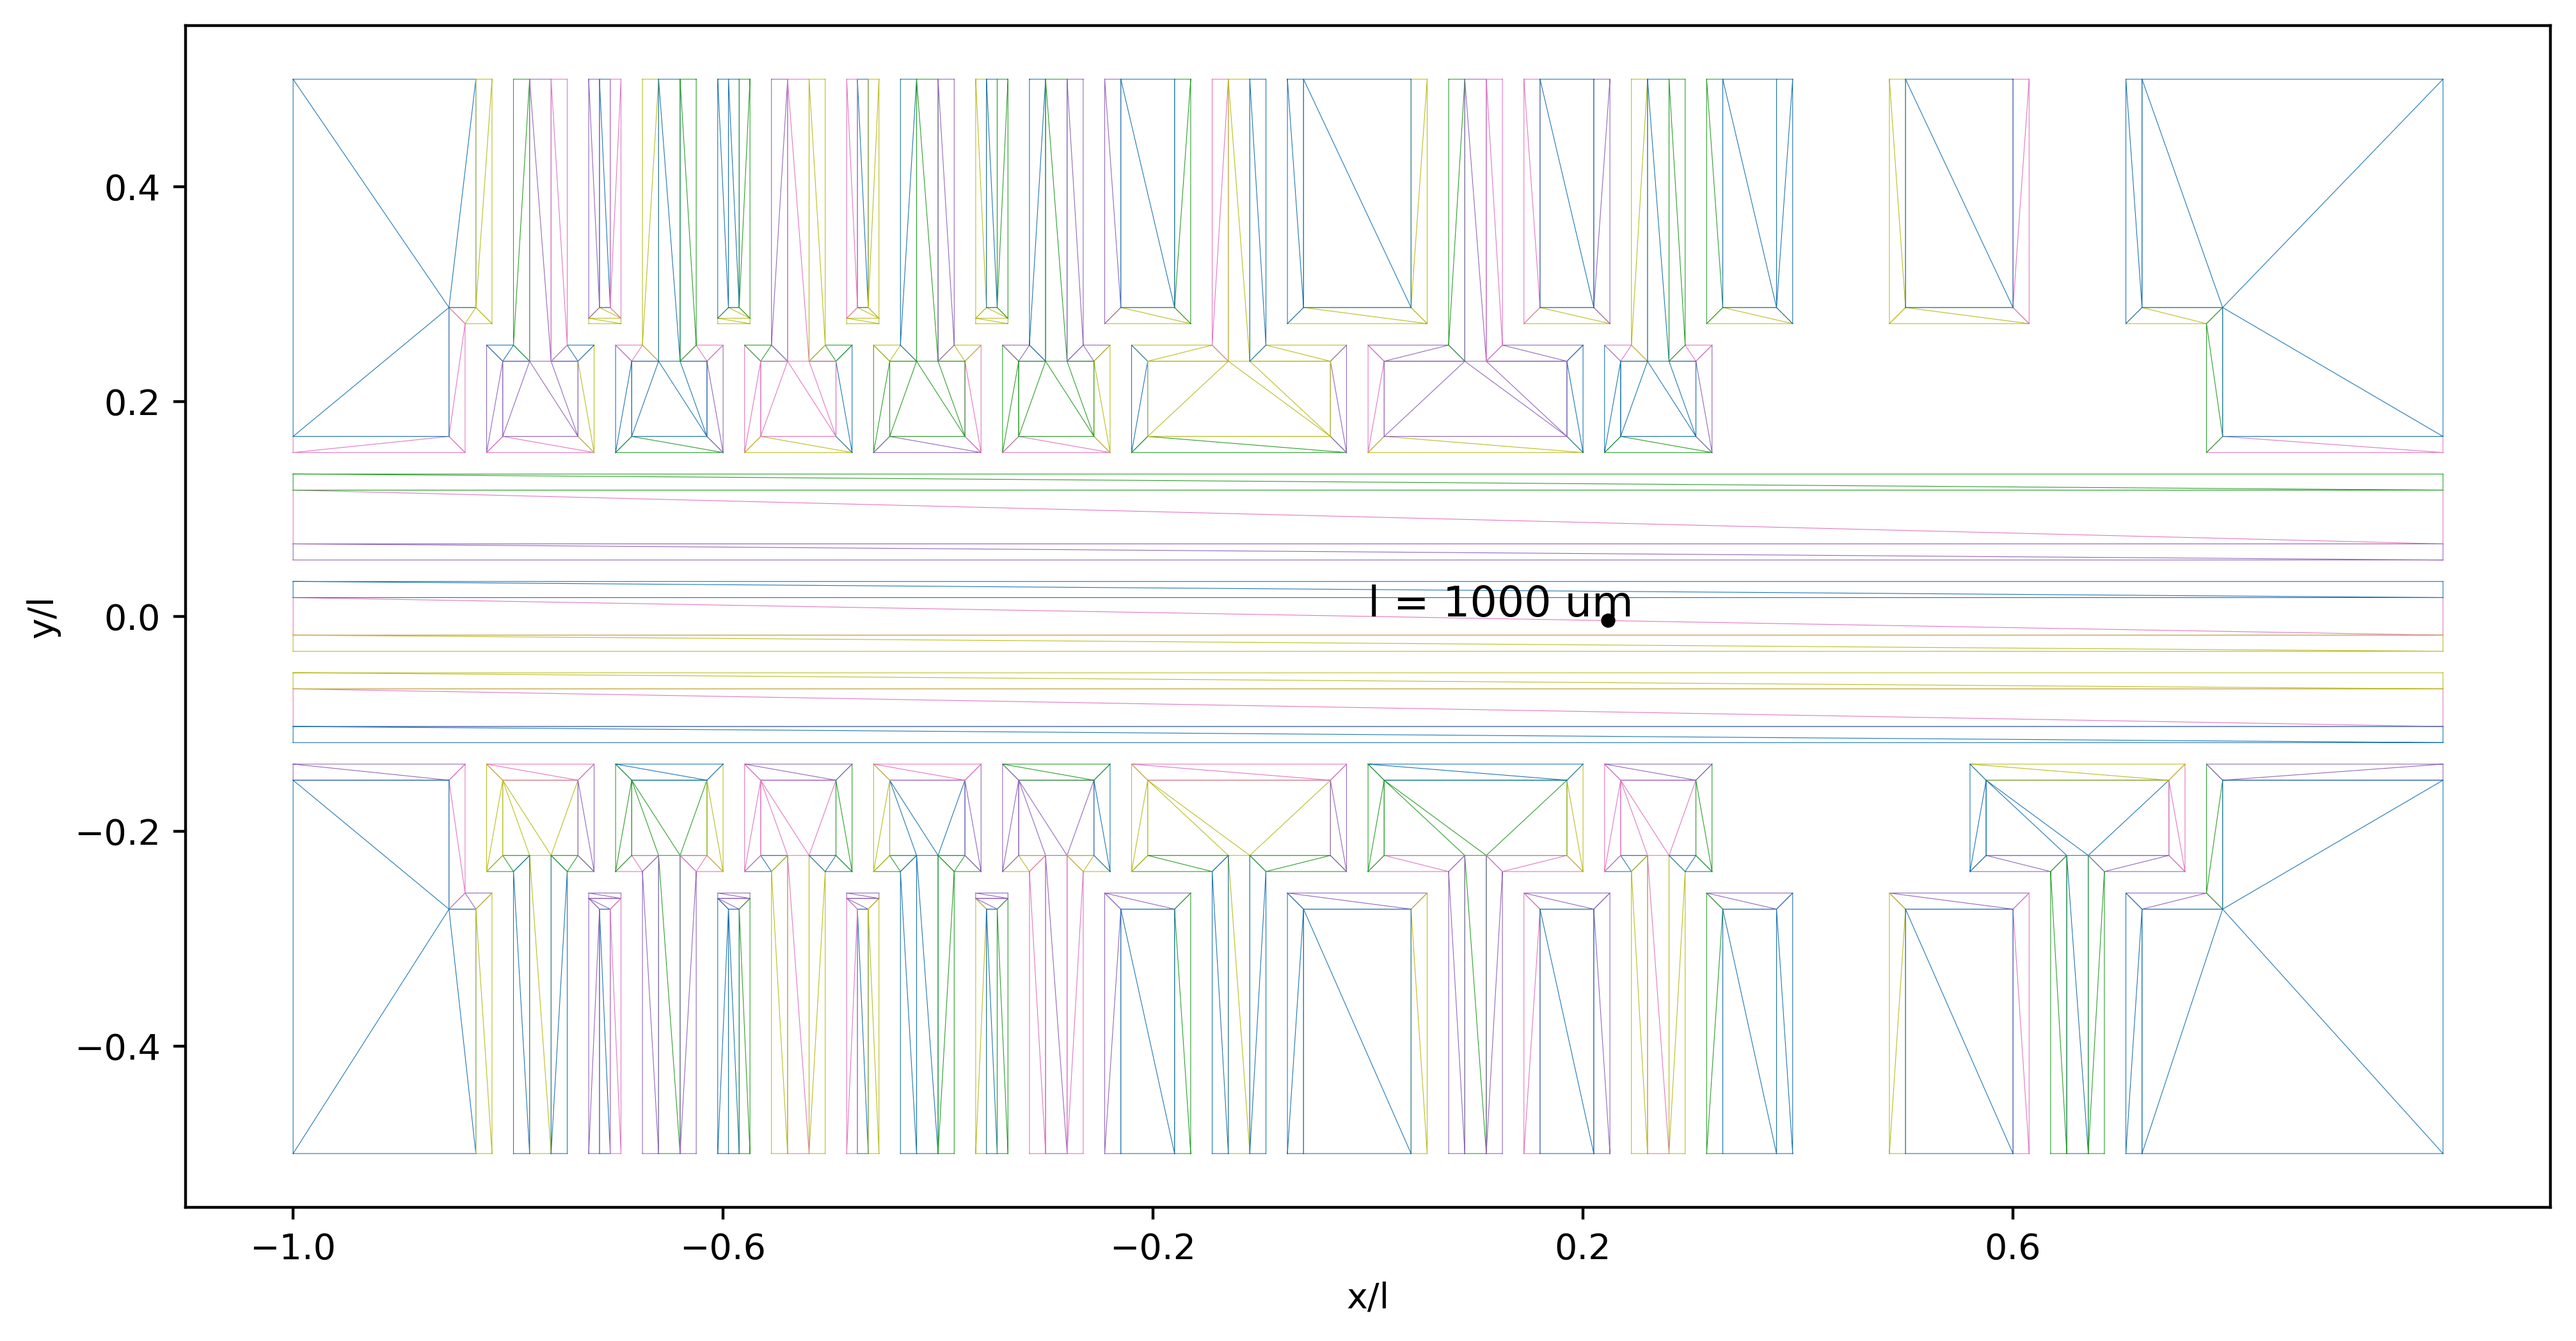
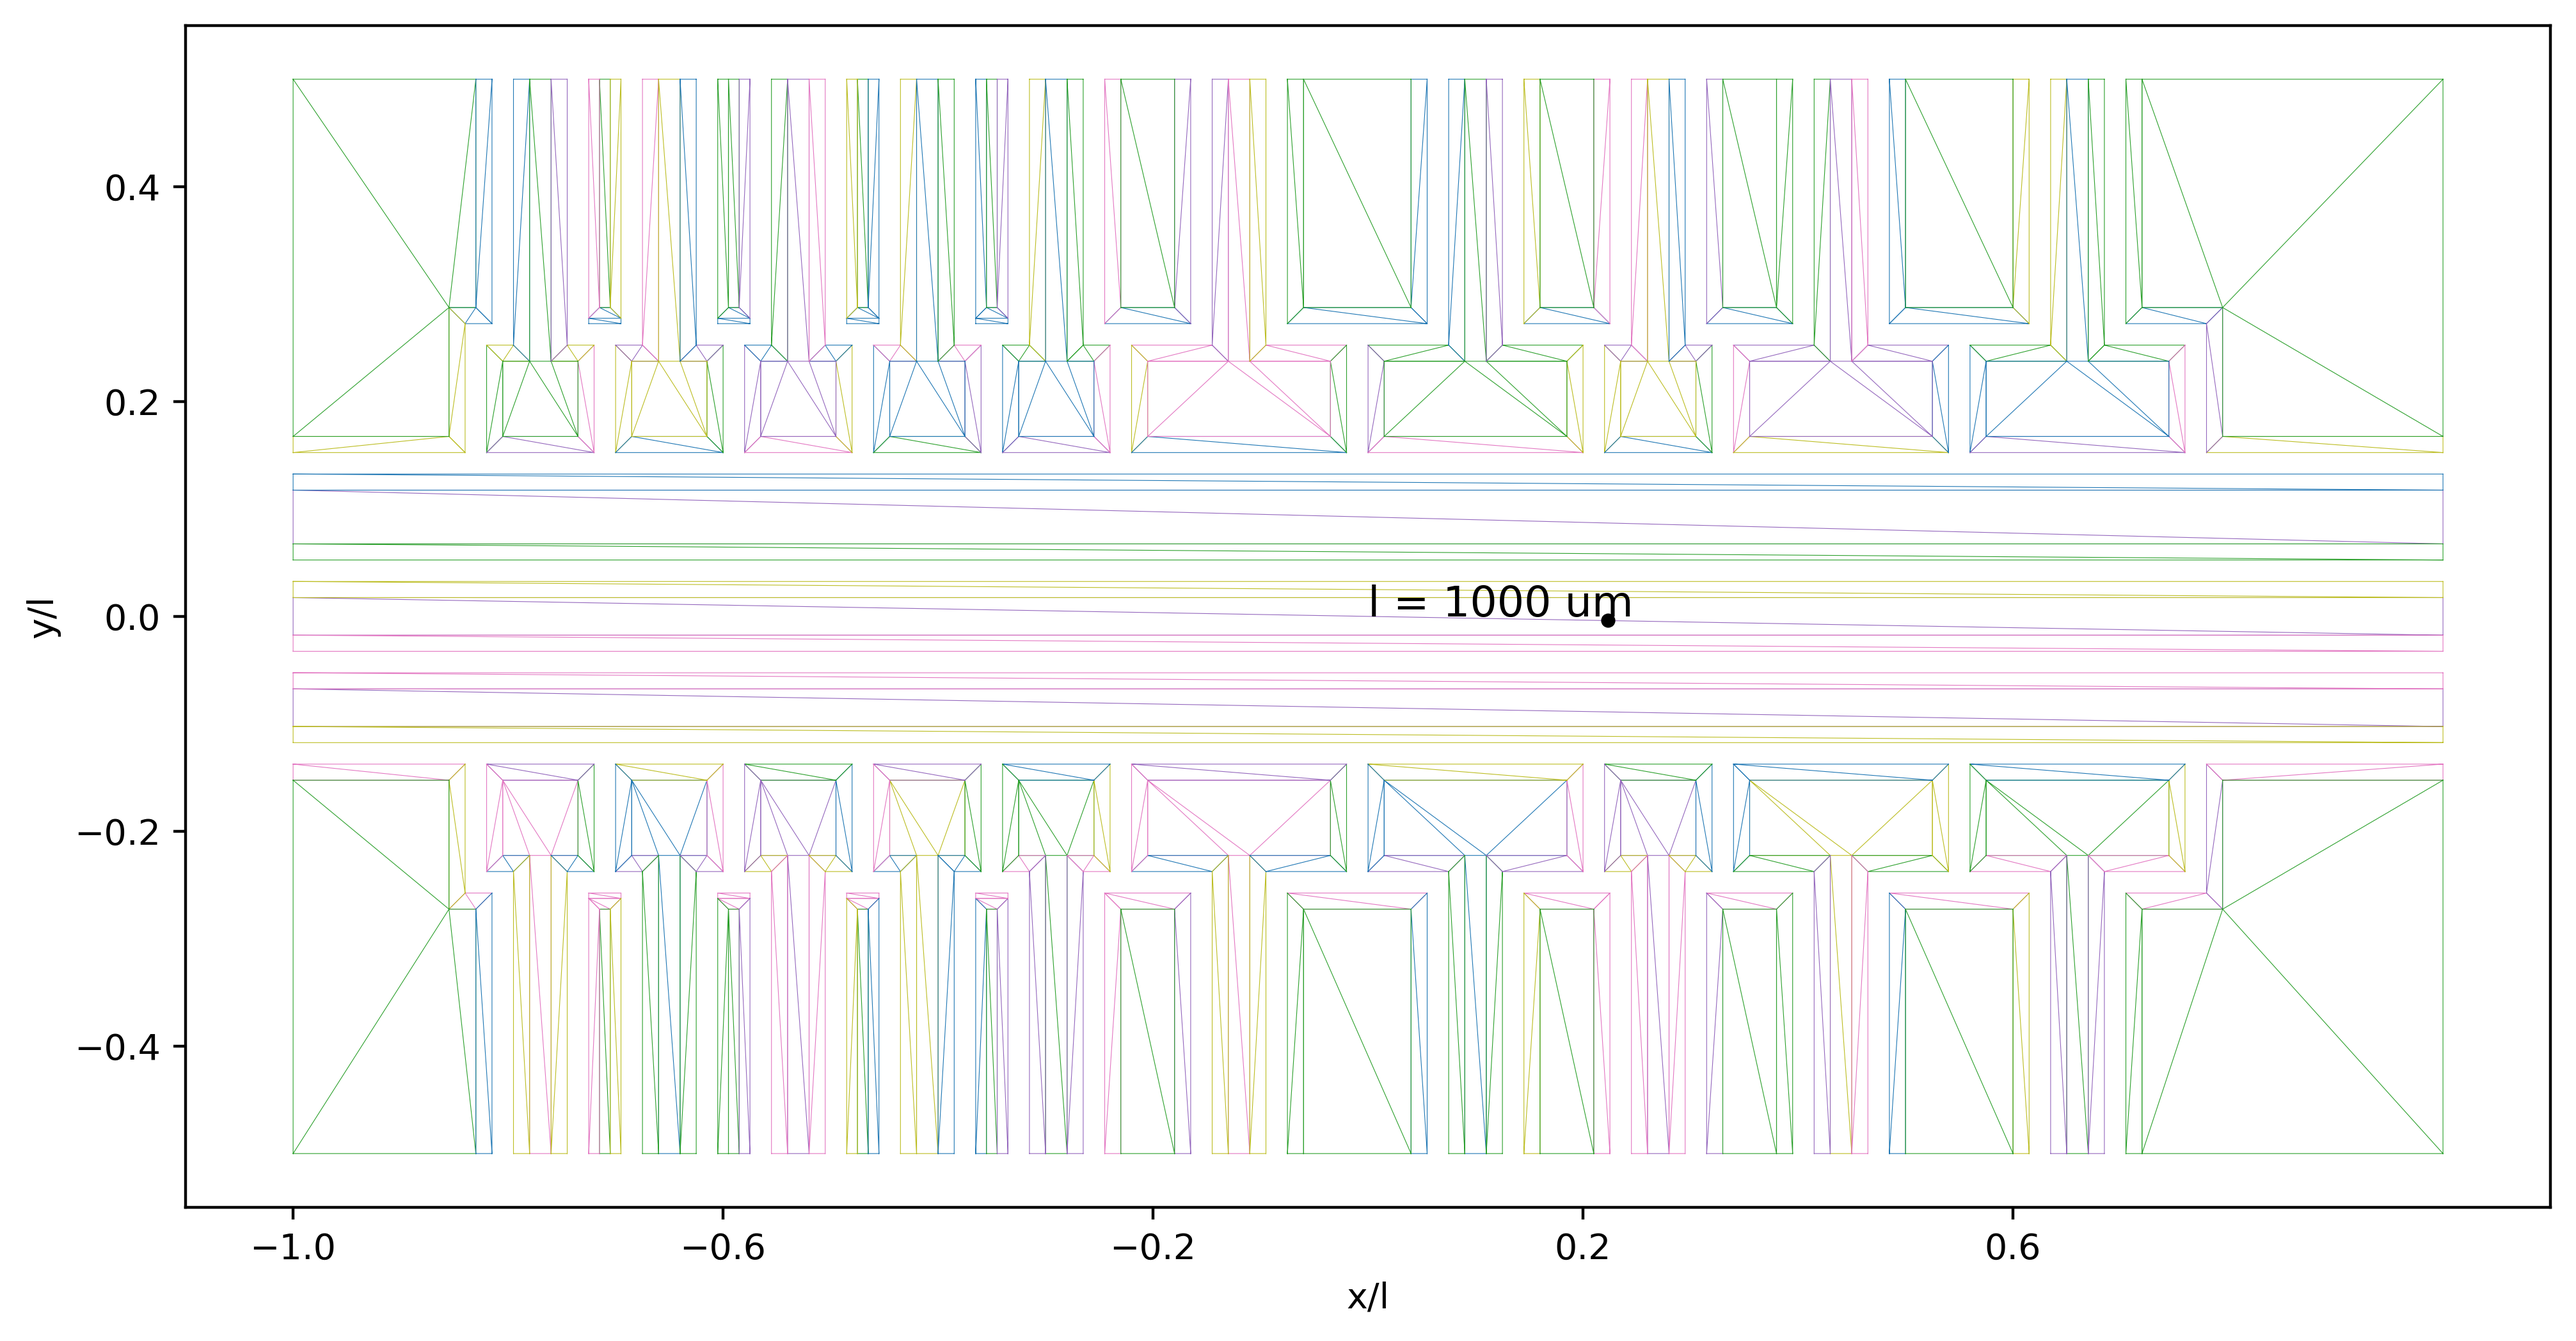
seems to run smoothly

diff --git a/bem/triangulation.py b/bem/triangulation.py
@@ -39,6 +39,17 @@ def check_rightHand(points,triangles):
             return False
     return True
 
+def correct_rightHand(points,triangles):
+    for i in range(len(triangles)):
+        tri = triangles[i]
+        a = np.array(points[tri[0]])
+        b = np.array(points[tri[1]])
+        c = np.array(points[tri[2]])
+        _deternminant = np.cross(b-a,c-a)
+        if _deternminant < 0:
+            triangles[i][1], triangles[i][2] = triangles[i][2], triangles[i][1]
+    return points, triangles
+
 class ThreeTwoTransform(object):
     """
     transforms planar face coordinates between 3D cartesian and 2D local
@@ -267,11 +278,12 @@ class Triangulation(object):
         Returns the new triangulation or self.
         """
         # logging.debug("calling triangulate()")
-        _args_to_pass = copy.deepcopy(self._args)
+        self._args['points'],self._args['triangles'] = correct_rightHand(self._args['points'],self._args['triangles'])
         print('points',self._args['points'])
         print('triangles',self._args['triangles'])
         print('right_hand',check_rightHand(self._args['points'],self._args['triangles']))
         #self.unify_dup_points(_args_to_pass)
+        _args_to_pass = copy.deepcopy(self._args)
         ret = triangulate(opts=opts, **_args_to_pass)
         # logging.debug("done with triangulate()")
         if new:

diff --git a/examples/SimpleTrap_new/SimpleTrap_0305.py b/examples/SimpleTrap_new/SimpleTrap_0305.py
@@ -75,7 +75,7 @@ color_dict = {
     meshlab_bemCol['bem30']:"DC0",
     meshlab_bemCol['bem25']:"RF",
     meshlab_bemCol['bem1'] : "DC1",
-    #meshlab_bemCol['bem2'] : "DC2",
+    meshlab_bemCol['bem2'] : "DC2",
     meshlab_bemCol['bem3'] : "DC3",
     meshlab_bemCol['bem4'] : "DC4",
     meshlab_bemCol['bem5'] : "DC5",
@@ -84,8 +84,8 @@ color_dict = {
     meshlab_bemCol['bem8'] : "DC8",
     meshlab_bemCol['bem9'] : "DC9",
     meshlab_bemCol['bem10'] : "DC10",
-    #meshlab_bemCol['bem11'] : "DC11",
-    #meshlab_bemCol['bem12'] : "DC12",
+    meshlab_bemCol['bem11'] : "DC11",
+    meshlab_bemCol['bem12'] : "DC12",
     meshlab_bemCol['bem13'] : "DC13",
     meshlab_bemCol['bem14'] : "DC14",
     meshlab_bemCol['bem15'] : "DC15",
